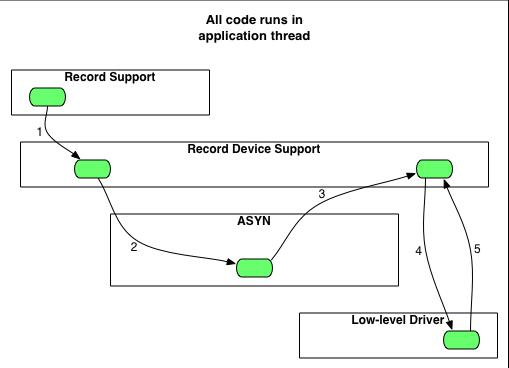
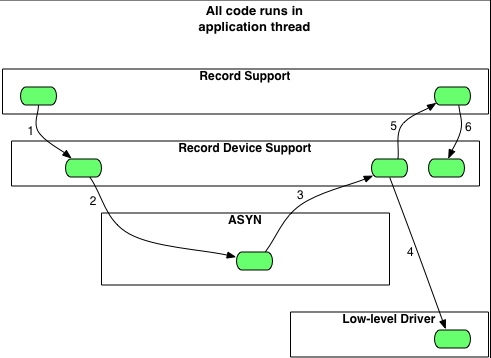
Make synchronous finalizing the same as asynchronous.

diff --git a/documentation/asynDriver.html b/documentation/asynDriver.html
@@ -446,7 +446,11 @@ following steps:
     processCallback.</li>
   <li>processCallback calls the low-level driver read or write routine.
     The low-level driver routine returns the results of the I/O operation
-    to processCallback which completes record processing.</li>
+    to processCallback.</li>
+  <li>processCallback calls the record support process method.</li>
+  <li>Record support calls Record device support again, this time with
+    record.PACT=1. Record device support updates fields in the record and
+    returns to record support which completes record processing.</li>
 </ol>
 <hr>
 
